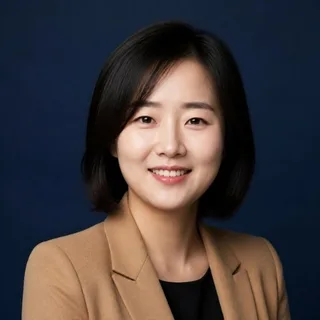
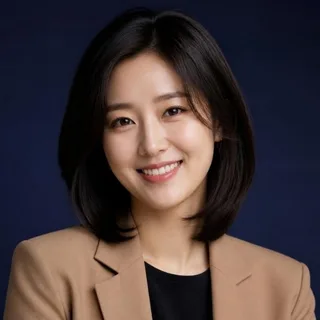
AHRAN: more polished staff headshots; 하임 clinic is 드림동물병원
Claude-Session: https://claude.ai/code/session_01Bcu5UsopUk5puo4oMBhXwW

diff --git a/ahran/haimcore.js b/ahran/haimcore.js
@@ -7,12 +7,12 @@ window.haimVerdict = function (rr, today, env) {
   const stale = days >= 3 ? `마지막 측정이 ${days}일 전이에요. ` : '';
   const streak = rr.slice(-3).length === 3 && rr.slice(-3).every(r => r.v >= 30);
   const air = env.aqG >= 3 ? '미세먼지가 나빠 창문 닫고 공기청정기 켜 두고, ' : env.lo != null && env.lo <= 10 ? `밤 최저 ${env.lo}°라 따뜻하게 해 주고, ` : '';
-  if (v >= 40) return { c: 'rd', t: `${stale}호흡수 ${v}회로 높아요 — 오늘 해마루에 연락하고, 입 벌리고 숨 쉬면 바로 응급 진료 받으세요.` };
-  if (streak) return { c: 'rd', t: `${stale}사흘 연속 30회 이상이에요 (${rr.slice(-3).map(r => r.v).join('→')}) — 이번 주 해마루 진료 예약을 권해요.` };
+  if (v >= 40) return { c: 'rd', t: `${stale}호흡수 ${v}회로 높아요 — 오늘 드림동물병원에 연락하고, 입 벌리고 숨 쉬면 바로 응급 진료 받으세요.` };
+  if (streak) return { c: 'rd', t: `${stale}사흘 연속 30회 이상이에요 (${rr.slice(-3).map(r => r.v).join('→')}) — 이번 주 드림동물병원 진료 예약을 권해요.` };
   if (v >= 35) return { c: 'rd', t: `${stale}호흡수 ${v}회로 목표보다 꽤 높아요 — ${air}내일 같은 시간에 다시 재서 35 이상이면 병원에 연락하세요.` };
   if (v >= 30) {
     const up = prev && v - prev.v >= 4 ? `지난번 ${prev.v}회보다 올랐어요` : '목표 30회보다 살짝 높아요';
-    return { c: 'or', t: `${stale}호흡수 ${v}회, ${up} — ${air}약은 그대로 두고 2~3일 연속 30을 넘으면 해마루에 알려주세요.` };
+    return { c: 'or', t: `${stale}호흡수 ${v}회, ${up} — ${air}약은 그대로 두고 2~3일 연속 30을 넘으면 드림동물병원에 알려주세요.` };
   }
   return { c: 'gr', t: `${stale}호흡수 ${v}회로 안정 범위예요 — ${air}지금 약 그대로 유지하면 돼요.${days >= 1 ? ' 오늘 밤에도 한 번 재 주세요.' : ''}` };
 };

diff --git a/ahran/haim.html b/ahran/haim.html
@@ -10,7 +10,7 @@
 <link rel="preconnect" href="https://fonts.googleapis.com">
 <link rel="preconnect" href="https://fonts.gstatic.com" crossorigin>
 <link href="https://fonts.googleapis.com/css2?family=Inter:wght@400;500;600;700&family=Orbitron:wght@500;600&family=Noto+Sans+KR:wght@300;400;500;700&family=Noto+Color+Emoji&display=swap" rel="stylesheet">
-<link rel="stylesheet" href="style.css?v=29">
+<link rel="stylesheet" href="style.css?v=30">
 </head>
 <body>
 <div class="lock">
@@ -63,7 +63,7 @@
   <form class="hm-add" id="hmAdd">
     <input id="addDate" type="date" aria-label="날짜" required>
     <select id="addKind" aria-label="종류"><option>검사</option><option>진료</option><option>접종</option><option>약</option><option>증상</option><option>측정</option></select>
-    <input id="addText" type="text" placeholder="예: 해마루 재진 · 흉부 X-ray, 광견병 접종 (Huron Vet)" aria-label="내용" required>
+    <input id="addText" type="text" placeholder="예: 드림동물병원 재진 · 흉부 X-ray, 광견병 접종 (Huron Vet)" aria-label="내용" required>
     <button class="hbtn" type="submit">기록 추가</button>
   </form>
   <ol class="hm-tl" id="hmTl"></ol>
@@ -72,8 +72,8 @@
 
 <section class="panel"><div class="ph"><span class="pt">전체 건강 기록</span></div><div id="hBody"></div></section>
 </div>
-<script src="lock.js?v=29"></script>
-<script src="haimcore.js?v=29"></script>
-<script src="haim.js?v=29"></script>
+<script src="lock.js?v=30"></script>
+<script src="haimcore.js?v=30"></script>
+<script src="haim.js?v=30"></script>
 </body>
 </html>

diff --git a/ahran/index.html b/ahran/index.html
@@ -10,7 +10,7 @@
 <link rel="preconnect" href="https://fonts.googleapis.com">
 <link rel="preconnect" href="https://fonts.gstatic.com" crossorigin>
 <link href="https://fonts.googleapis.com/css2?family=Inter:wght@400;500;600;700&family=Orbitron:wght@500;600&family=Noto+Sans+KR:wght@300;400;500;700&family=Noto+Color+Emoji&display=swap" rel="stylesheet">
-<link rel="stylesheet" href="style.css?v=29">
+<link rel="stylesheet" href="style.css?v=30">
 </head>
 <body>
 <div class="lock" aria-hidden="false">
@@ -112,10 +112,10 @@
 </div>
 
 <div class="pj-modal" id="hModal" hidden><div class="pj-sheet" id="hSheet" role="dialog" aria-modal="true" aria-label="하임 건강 기록"><button class="pj-close" id="hClose" type="button" aria-label="닫기">✕</button><div id="hBody"></div></div></div>
-<script src="lock.js?v=29"></script>
-<script src="tree.js?v=29"></script>
-<script src="body.js?v=29"></script>
-<script src="haimcore.js?v=29"></script>
-<script src="app.js?v=29"></script>
+<script src="lock.js?v=30"></script>
+<script src="tree.js?v=30"></script>
+<script src="body.js?v=30"></script>
+<script src="haimcore.js?v=30"></script>
+<script src="app.js?v=30"></script>
 </body>
 </html>

diff --git a/ahran/projects.html b/ahran/projects.html
@@ -10,7 +10,7 @@
 <link rel="preconnect" href="https://fonts.googleapis.com">
 <link rel="preconnect" href="https://fonts.gstatic.com" crossorigin>
 <link href="https://fonts.googleapis.com/css2?family=Inter:wght@400;500;600;700&family=Orbitron:wght@500;600&family=Noto+Sans+KR:wght@300;400;500;700&family=Noto+Color+Emoji&display=swap" rel="stylesheet">
-<link rel="stylesheet" href="style.css?v=29">
+<link rel="stylesheet" href="style.css?v=30">
 </head>
 <body>
 <div class="lock">
@@ -44,8 +44,8 @@
 
 <p class="pj-foot">최근 작업은 GitHub에서 실시간으로 불러와요 · 요약·단계·다음 할 일은 <code>data/projects.json</code>에 적혀 있어요 (Claude에게 "프로젝트 현황 업데이트해줘"라고 하면 갱신)</p>
 </div>
-<script src="lock.js?v=29"></script>
-<script src="avatar.js?v=29"></script>
-<script src="projects.js?v=29"></script>
+<script src="lock.js?v=30"></script>
+<script src="avatar.js?v=30"></script>
+<script src="projects.js?v=30"></script>
 </body>
 </html>

diff --git a/ahran/projects.js b/ahran/projects.js
@@ -159,7 +159,7 @@
     $('#pjDetail').innerHTML = `<div class="pj-nav"><button type="button" class="all" data-parent="${sb.parent}">← ${esc(par.p.short)}</button><span class="hud-t">SUB · ${esc(par.p.short)}</span></div>` + card(sb.p, sb.log);
     openModal();
   }
-  const face = (st, color, size) => st.photo ? `<img class="avatar photo" src="${esc(st.photo)}" width="${size}" height="${size}" alt="${esc(st.person)}" style="--c:${color}" loading="lazy">` : window.ahranAvatar(st.avatar, color, size);
+  const face = (st, color, size) => st.photo ? `<img class="avatar photo" src="${esc(st.photo)}?v=30" width="${size}" height="${size}" alt="${esc(st.person)}" style="--c:${color}" loading="lazy">` : window.ahranAvatar(st.avatar, color, size);
   let PK = null, DLV = [];
   const dlvFor = key => DLV.filter(x => x.key === key).sort((a, b) => (b.date + b.file).localeCompare(a.date + a.file));
   const KIT = 'https://claude.ai/artifact/EZ18A8mqCWAbgJMMs1Az4G';

diff --git a/ahran/lock.js b/ahran/lock.js
@@ -48,7 +48,7 @@
   function lockNow() { try { localStorage.removeItem(PK); } catch (e) { /* ignore */ } location.reload(); }
 
   // reload once when a newer build is published (GitHub Pages may serve cached HTML for ~10 min)
-  const BUILD = '29';
+  const BUILD = '30';
   fetch('data/version.json?t=' + Date.now(), { cache: 'no-store' }).then(r => r.ok ? r.json() : null).then(v => {
     if (v && v.build && v.build !== BUILD && !sessionStorage.getItem('ahran.reloaded.' + v.build)) {
       sessionStorage.setItem('ahran.reloaded.' + v.build, '1');
